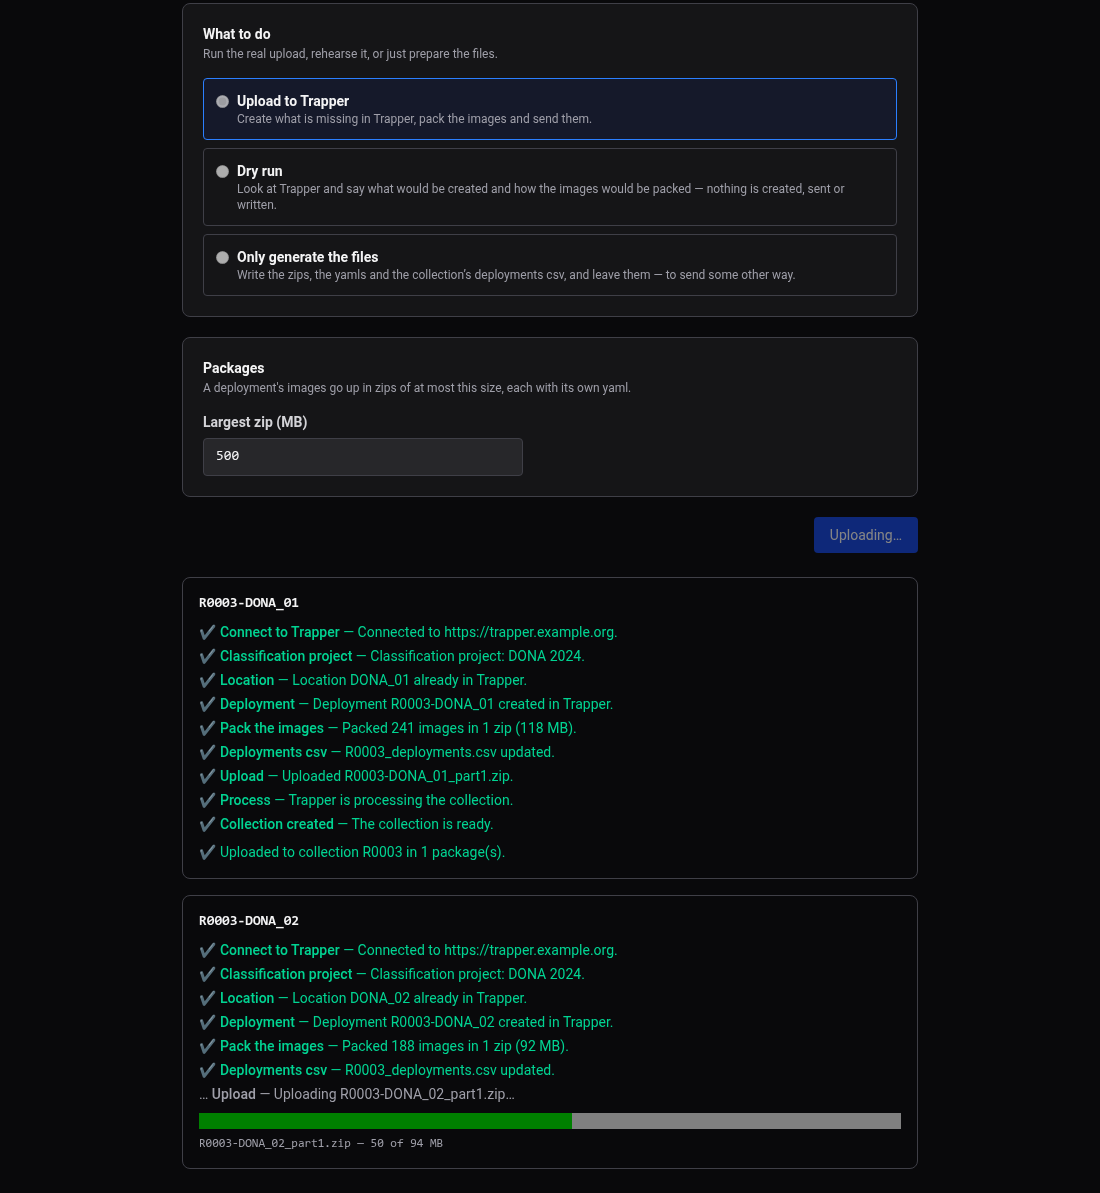
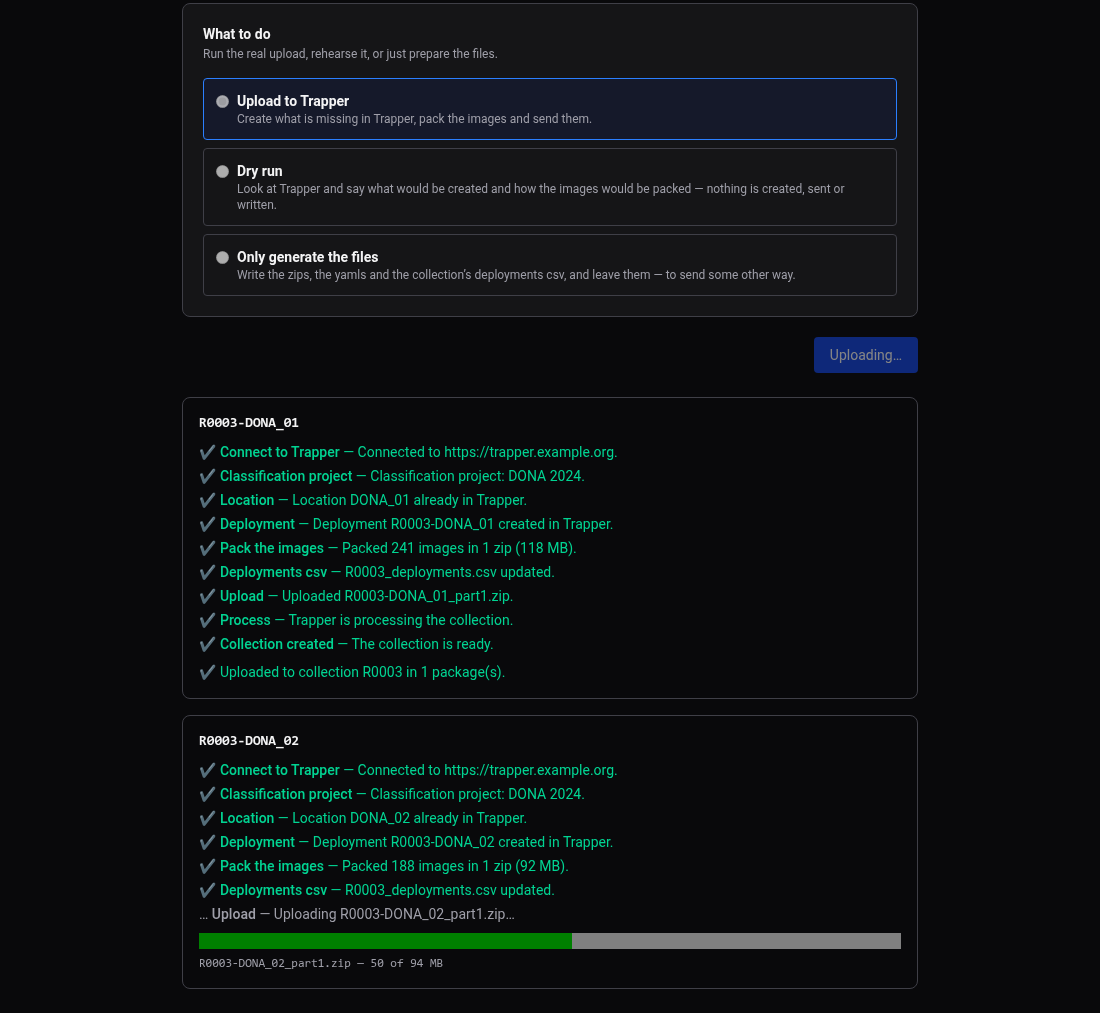
The largest zip is a setting of Trapper (TRAPPER.max_zip_mb), no longer a field of the upload page

diff --git a/frontend/src/pages/UploadDeploymentPage.test.tsx b/frontend/src/pages/UploadDeploymentPage.test.tsx
@@ -1,5 +1,5 @@
 import { beforeEach, describe, expect, it, vi } from 'vitest'
-import { render, screen, waitFor, within } from '@testing-library/react'
+import { render, screen, within } from '@testing-library/react'
 import userEvent from '@testing-library/user-event'
 import { api } from '../api'
 import UploadDeploymentPage from './UploadDeploymentPage'
@@ -50,7 +50,7 @@ beforeEach(() => {
   mockedApi.uploadCollections.mockResolvedValue({ results: COLLECTIONS })
   mockedApi.trapperGetConfig.mockResolvedValue({ base_url: 'https://trapper.example.org', user_name: 'alice@example.org', has_password: true })
   mockedApi.uploadClassificationProjects.mockResolvedValue({ results: [{ pk: 7, name: 'Doñana classification', is_active: true }] })
-  mockedApi.uploadDeployment.mockImplementation(async (_rp, _col, id, _mb, _mode, onEvent) => { STEP_EVENTS(id).forEach(onEvent) })
+  mockedApi.uploadDeployment.mockImplementation(async (_rp, _col, id, _mode, onEvent) => { STEP_EVENTS(id).forEach(onEvent) })
   mockedApi.checkUploadSelection.mockResolvedValue({ checks: [
     { check: 'research_project', ok: true, message: 'You have access to the research project DONA (#2) in Trapper.' },
     { check: 'collection', ok: true, message: 'You have access to the collection R0003 (#26): it is already in Trapper, so the upload adds to it.' },
@@ -154,13 +154,13 @@ describe('UploadDeploymentPage', () => {
     expect(screen.getByRole('button', { name: 'Upload 0 deployments' })).toBeDisabled()
   })
 
-  it('uploads each chosen deployment in turn, with the largest zip asked for', async () => {
+  it('uploads each chosen deployment in turn', async () => {
     await pickCollection()
     await userEvent.click(await screen.findByRole('button', { name: 'Upload 2 deployments' }))
 
     await screen.findByText(/2 deployment\(s\) uploaded\./)
-    expect(mockedApi.uploadDeployment.mock.calls.map((c) => c.slice(0, 4))).toEqual([
-      ['DONA', 'R0003', 'R0003-DONA_01', 500], ['DONA', 'R0003', 'R0003-DONA_02', 500],
+    expect(mockedApi.uploadDeployment.mock.calls.map((c) => c.slice(0, 3))).toEqual([
+      ['DONA', 'R0003', 'R0003-DONA_01'], ['DONA', 'R0003', 'R0003-DONA_02'],
     ])
   })
 
@@ -179,7 +179,7 @@ describe('UploadDeploymentPage', () => {
 
   it('shows how much of a file has gone up while it does', async () => {
     let finish: () => void = () => {}
-    mockedApi.uploadDeployment.mockImplementation((_rp, _col, _id, _mb, _mode, onEvent) => new Promise<void>((resolve) => {
+    mockedApi.uploadDeployment.mockImplementation((_rp, _col, _id, _mode, onEvent) => new Promise<void>((resolve) => {
       onEvent({ type: 'upload_progress', file: 'package_2_x_part001.zip', bytes: 5 * 1024 * 1024, total: 20 * 1024 * 1024 })
       finish = resolve
     }))
@@ -196,7 +196,7 @@ describe('UploadDeploymentPage', () => {
   })
 
   it('a deployment that fails shows why, and the others go on', async () => {
-    mockedApi.uploadDeployment.mockImplementation(async (_rp, _col, id, _mb, _mode, onEvent) => {
+    mockedApi.uploadDeployment.mockImplementation(async (_rp, _col, id, _mode, onEvent) => {
       if (id === 'R0003-DONA_01') throw new Error("Trapper has no research project 'DONA' — create it there first")
       STEP_EVENTS(id).forEach(onEvent)
     })
@@ -231,22 +231,10 @@ describe('UploadDeploymentPage', () => {
     expect(screen.queryByRole('region', { name: 'Upload of R0003-DONA_01' })).not.toBeInTheDocument()
   })
 
-  it('the largest zip needs to be a whole number of megabytes from 1 to 5000', async () => {
+  it('has no size of zips to set here: it is a setting of Trapper', async () => {
     await pickCollection()
-    const field = await screen.findByLabelText('Largest zip (MB)')
-    expect(field).toHaveValue(500)
-
-    for (const bad of ['', '0', '5001', '2.5']) {
-      await userEvent.clear(field)
-      if (bad) await userEvent.type(field, bad)
-      expect(screen.getByText('A whole number from 1 to 5000.'), `"${bad}"`).toBeInTheDocument()
-      expect(screen.getByRole('button', { name: /^Upload \d+ deployment/ })).toBeDisabled()
-    }
-    await userEvent.clear(field)
-    await userEvent.type(field, '100')
-    expect(screen.getByRole('button', { name: /^Upload \d+ deployment/ })).toBeEnabled()
-    await userEvent.click(screen.getByRole('button', { name: /^Upload \d+ deployment/ }))
-    await waitFor(() => expect(mockedApi.uploadDeployment.mock.calls[0][3]).toBe(100))
+    await screen.findByRole('button', { name: 'Upload 2 deployments' })
+    expect(screen.queryByLabelText('Largest zip (MB)')).not.toBeInTheDocument()
   })
 
   it('changing the research project or the collection clears the previous upload', async () => {
@@ -271,7 +259,7 @@ describe('UploadDeploymentPage', () => {
   })
 
   it('runs a dry run, saying what would be done and changing nothing', async () => {
-    mockedApi.uploadDeployment.mockImplementation(async (_rp, _col, id, _mb, _mode, onEvent) => {
+    mockedApi.uploadDeployment.mockImplementation(async (_rp, _col, id, _mode, onEvent) => {
       onEvent({ type: 'done', mode: 'dry_run', collection: 'R0003', deployment_id: id, parts: 3, would_create_location: true, would_create_deployment: false })
     })
     await pickCollection()
@@ -279,7 +267,7 @@ describe('UploadDeploymentPage', () => {
     await userEvent.click(await screen.findByRole('button', { name: 'Dry run 2 deployments' }))
 
     await screen.findByText(/2 deployment\(s\) checked\./)
-    expect(mockedApi.uploadDeployment.mock.calls.map((c) => c[4])).toEqual(['dry_run', 'dry_run'])
+    expect(mockedApi.uploadDeployment.mock.calls.map((c) => c[3])).toEqual(['dry_run', 'dry_run'])
     expect(screen.getAllByText('The location would be created in Trapper.')).toHaveLength(2)
     expect(screen.getAllByText('The deployment is already in Trapper.')).toHaveLength(2)
     expect(screen.getAllByText('The images would go up in 3 package(s).')).toHaveLength(2)
@@ -288,7 +276,7 @@ describe('UploadDeploymentPage', () => {
   it('only generates the files without a Trapper account, and can open their folder', async () => {
     mockedApi.trapperGetConfig.mockResolvedValue({ base_url: null, user_name: null, has_password: false })
     mockedApi.openFolder.mockResolvedValue({ opened: '/out/R0003' })
-    mockedApi.uploadDeployment.mockImplementation(async (_rp, _col, id, _mb, _mode, onEvent) => {
+    mockedApi.uploadDeployment.mockImplementation(async (_rp, _col, id, _mode, onEvent) => {
       onEvent({ type: 'done', mode: 'generate', collection: 'R0003', deployment_id: id, parts: 1, output_dir: '/out/R0003', files: ['a_part001.zip', 'a_part001.yaml', 'R0003_deployments.csv'] })
     })
     await pickCollection()
@@ -301,8 +289,8 @@ describe('UploadDeploymentPage', () => {
     await userEvent.click(button)
 
     await screen.findByText(/2 deployment\(s\) generated\./)
-    expect(mockedApi.uploadDeployment.mock.calls[0][4]).toBe('generate')
-    expect(mockedApi.uploadDeployment.mock.calls[0][6]).toBe(7)
+    expect(mockedApi.uploadDeployment.mock.calls[0][3]).toBe('generate')
+    expect(mockedApi.uploadDeployment.mock.calls[0][5]).toBe(7)
     expect(screen.getAllByText('R0003_deployments.csv').length).toBeGreaterThan(0)
     await userEvent.click(screen.getAllByRole('button', { name: 'Open folder in file explorer' })[0])
     expect(mockedApi.openFolder).toHaveBeenCalledWith('/out/R0003')
@@ -334,7 +322,7 @@ describe('UploadDeploymentPage', () => {
       await userEvent.click(await screen.findByRole('button', { name: 'Upload 2 deployments' }))
       await screen.findByText(/2 deployment\(s\) uploaded\./)
       expect(mockedApi.uploadClassificationProjects).toHaveBeenCalledWith('DONA')
-      expect(mockedApi.uploadDeployment.mock.calls.map((c) => c[6])).toEqual([7, 7])
+      expect(mockedApi.uploadDeployment.mock.calls.map((c) => c[5])).toEqual([7, 7])
     })
 
     it('has to be picked when there are several, and holds the upload back until it is', async () => {
@@ -351,7 +339,7 @@ describe('UploadDeploymentPage', () => {
       await userEvent.click(await screen.findByRole('option', { name: 'B (#8)' }))
       await userEvent.click(screen.getByRole('button', { name: 'Upload 2 deployments' }))
       await screen.findByText(/2 deployment\(s\) uploaded\./)
-      expect(mockedApi.uploadDeployment.mock.calls[0][6]).toBe(8)
+      expect(mockedApi.uploadDeployment.mock.calls[0][5]).toBe(8)
     })
   })
 

diff --git a/frontend/src/pages/UploadDeploymentPage.tsx b/frontend/src/pages/UploadDeploymentPage.tsx
@@ -82,7 +82,6 @@ export default function UploadDeploymentPage({ initial }: Props = {}) {
   const [collections, setCollections] = useState<UploadCollection[]>([])
   const [collectionName, setCollectionName] = useState('')
   const [selected, setSelected] = useState<Set<string>>(new Set())
-  const [maxZipMb, setMaxZipMb] = useState('500')
   const [mode, setMode] = useState<UploadMode>('upload')
   const [trapper, setTrapper] = useState<{ base_url: string | null; user_name: string | null; has_password: boolean } | null>(null)
   const [loadError, setLoadError] = useState<string | null>(null)
@@ -160,8 +159,6 @@ export default function UploadDeploymentPage({ initial }: Props = {}) {
   }
 
   const collection = collections.find((c) => c.name === collectionName)
-  const zipMb = Number(maxZipMb)
-  const zipValid = maxZipMb.trim() !== '' && Number.isInteger(zipMb) && zipMb >= 1 && zipMb <= 5000
   const connected = Boolean(trapper?.base_url && trapper.user_name && trapper.has_password)
   // Generating the files needs no account — the others look at Trapper.
   const accountOk = mode === 'generate' || connected
@@ -217,7 +214,7 @@ export default function UploadDeploymentPage({ initial }: Props = {}) {
     setRuns(Object.fromEntries(ids.map((id) => [id, EMPTY_RUN])))
     for (const id of ids) {
       try {
-        await api.uploadDeployment(projectId, collection.name, id, zipMb, mode, (event) => setRuns((r) => ({ ...r, [id]: reduceRun(r[id] ?? EMPTY_RUN, event) })), classificationValue)
+        await api.uploadDeployment(projectId, collection.name, id, mode, (event) => setRuns((r) => ({ ...r, [id]: reduceRun(r[id] ?? EMPTY_RUN, event) })), classificationValue)
       } catch (e) {
         setRuns((r) => ({ ...r, [id]: { ...(r[id] ?? EMPTY_RUN), progress: null, error: e instanceof Error ? e.message : 'The upload failed.' } }))
       }
@@ -403,19 +400,8 @@ export default function UploadDeploymentPage({ initial }: Props = {}) {
       )}
 
       {collection && (
-        <Card title="Packages" description="A deployment's images go up in zips of at most this size, each with its own yaml.">
-          <div className="max-w-xs">
-            <label className={labelClass} htmlFor="upload-max-zip">Largest zip (MB)</label>
-            <input id="upload-max-zip" type="number" min={1} max={5000} step={1} className={inputClass} value={maxZipMb} disabled={uploading}
-                   onChange={(e) => setMaxZipMb(e.target.value)} aria-invalid={zipValid ? undefined : true} />
-            {!zipValid && <p className="text-xs text-red-600 dark:text-red-400 mt-1">A whole number from 1 to 5000.</p>}
-          </div>
-        </Card>
-      )}
-
-      {collection && (
         <div className="flex justify-end mb-6">
-          <button type="button" className={btnPrimary} disabled={uploading || !accountOk || toUpload.length === 0 || !zipValid || !classificationReady} onClick={handleUpload}>
+          <button type="button" className={btnPrimary} disabled={uploading || !accountOk || toUpload.length === 0 || !classificationReady} onClick={handleUpload}>
             {uploading ? modeInfo.busy : modeInfo.button(toUpload.length)}
           </button>
         </div>

diff --git a/frontend/src/pages/SettingsPage.tsx b/frontend/src/pages/SettingsPage.tsx
@@ -15,6 +15,7 @@ const SEQUENCE_GAP = { min: 0.001, max: 86400, decimal: true }
 const MIN_REVISIONS = { min: 1, max: 50 }
 const SIMILARITY_TOLERANCE = { min: 0, max: 1000, decimal: true }
 const WORKERS = { min: 1, max: 64 }
+const MAX_ZIP_MB = { min: 1, max: 5000 }
 
 type Limits = { min: number; max: number; decimal?: boolean }
 
@@ -98,6 +99,7 @@ interface Draft {
   workers: string
   dataDir: string
   trapperUrl: string
+  maxZipMb: string
   trapperUser: string
   trapperPassword: string
   validation: AppSettings['VALIDATION']
@@ -133,6 +135,7 @@ function toDraft(s: AppSettings): Draft {
     workers: String(s.GENERAL.workers),
     dataDir: s.DATA.dir,
     trapperUrl: s.TRAPPER.base_url ?? '',
+    maxZipMb: String(s.TRAPPER.max_zip_mb),
     trapperUser: s.TRAPPER.user_name ?? '',
     trapperPassword: '',
     validation: { ...s.VALIDATION },
@@ -175,6 +178,7 @@ function sectionValid(d: Draft, id: SectionId): boolean {
       && [d.imageTolerance, d.sequenceCountTolerance, d.sequenceLengthTolerance].every((t) => numberIn(t, SIMILARITY_TOLERANCE) !== null)
   }
   if (id === 'preprocessing') return numberIn(d.resizeWidth, RESIZE_WIDTH) !== null
+  if (id === 'trapper') return numberIn(d.maxZipMb, MAX_ZIP_MB) !== null
   return true
 }
 
@@ -182,7 +186,7 @@ function toUpdate(d: Draft): AppSettingsUpdate | null {
   if (!SECTIONS.every((s) => sectionValid(d, s.id))) return null
   return {
     GENERAL: { log_level: d.logLevel, workers: Number(d.workers) },
-    TRAPPER: { base_url: d.trapperUrl.trim() || null, user_name: d.trapperUser.trim() || null, user_password: d.trapperPassword },
+    TRAPPER: { base_url: d.trapperUrl.trim() || null, user_name: d.trapperUser.trim() || null, user_password: d.trapperPassword, max_zip_mb: Number(d.maxZipMb) },
     DATA: { dir: d.dataDir.trim() || null },
     VALIDATION: d.validation,
     POSTVALIDATION: {
@@ -788,6 +792,9 @@ export default function SettingsPage({ onClose }: Props) {
                 {conn.kind === 'ok' && <span className="text-sm text-emerald-700 dark:text-emerald-400">{conn.message}</span>}
                 {conn.kind === 'error' && <span className="text-sm text-red-600 dark:text-red-400">{conn.message}</span>}
               </div>
+            </Row>
+            <Row label="Upload packages" description="A deployment's images go up in zips of at most this size, each with its own yaml.">
+              <NumberBox label="Largest zip" value={draft.maxZipMb} limits={MAX_ZIP_MB} onChange={(v) => set('maxZipMb', v)} unit="MB" />
             </Row>
           </div>
         )}

diff --git a/frontend/src/pages/SettingsPage.test.tsx b/frontend/src/pages/SettingsPage.test.tsx
@@ -159,8 +159,26 @@ describe('SettingsPage', () => {
       await userEvent.type(screen.getByLabelText('Username'), 'bob')
       await userEvent.click(screen.getByRole('button', { name: 'Save' }))
 
-      expect(mockedApi.saveSettings.mock.calls[0][0].TRAPPER).toEqual({ base_url: 'https://trapper.example.org', user_name: 'bob', user_password: '' })
+      expect(mockedApi.saveSettings.mock.calls[0][0].TRAPPER).toEqual({ base_url: 'https://trapper.example.org', user_name: 'bob', user_password: '', max_zip_mb: 500 })
       expect(await screen.findByText('Settings saved.')).toBeInTheDocument()
+    })
+
+    it('sets the largest zip an upload makes, from 1 to 5000 MB', async () => {
+      render(<SettingsPage onClose={vi.fn()} />)
+      await screen.findByLabelText('Level')
+      await section('Trapper')
+      const field = screen.getByLabelText('Largest zip')
+      expect(field).toHaveValue('500')
+
+      await userEvent.clear(field)
+      await userEvent.type(field, '5001')
+      expect(screen.getByText('A whole number from 1 to 5000.')).toBeInTheDocument()
+      expect(screen.getByRole('button', { name: 'Save' })).toBeDisabled()
+
+      await userEvent.clear(field)
+      await userEvent.type(field, '250')
+      await userEvent.click(screen.getByRole('button', { name: 'Save' }))
+      expect(mockedApi.saveSettings.mock.calls[0][0].TRAPPER.max_zip_mb).toBe(250)
     })
 
     it('never keeps the password in the form once saved', async () => {
@@ -176,7 +194,7 @@ describe('SettingsPage', () => {
     })
 
     it('says there is no password saved yet', async () => {
-      mockedApi.getSettings.mockResolvedValue({ ...APP_SETTINGS, TRAPPER: { base_url: null, user_name: null, has_password: false } })
+      mockedApi.getSettings.mockResolvedValue({ ...APP_SETTINGS, TRAPPER: { base_url: null, user_name: null, has_password: false, max_zip_mb: 500 } })
       render(<SettingsPage onClose={vi.fn()} />)
       await screen.findByLabelText('Level')
       await section('Trapper')

diff --git a/frontend/src/types.ts b/frontend/src/types.ts
@@ -487,7 +487,7 @@ export interface ConfigInfo {
 export interface AppSettings {
   /** workers: how many images are validated or preprocessed at once; cpu_count: the CPUs this machine has (read-only). */
   GENERAL: { log_level: LogLevel; workers: number; cpu_count: number; log_file: string; log_level_override: string | null }
-  TRAPPER: { base_url: string | null; user_name: string | null; has_password: boolean }
+  TRAPPER: { base_url: string | null; user_name: string | null; has_password: boolean; max_zip_mb: number }
   /** The folder where the app keeps the images — its collections go in a "collections" folder inside. */
   DATA: { dir: string }
   VALIDATION: ValidationSettings
@@ -498,7 +498,7 @@ export interface AppSettings {
 /** What the settings page saves. A blank password keeps the saved one. */
 export interface AppSettingsUpdate {
   GENERAL: { log_level: LogLevel; workers: number }
-  TRAPPER: { base_url: string | null; user_name: string | null; user_password: string }
+  TRAPPER: { base_url: string | null; user_name: string | null; user_password: string; max_zip_mb: number }
   DATA: { dir: string | null }
   VALIDATION: ValidationSettings
   POSTVALIDATION: PostvalidationSettings

diff --git a/frontend/src/api.ts b/frontend/src/api.ts
@@ -248,11 +248,11 @@ export const api = {
   // Uploads one deployment: creates its location and the deployment in Trapper if need be, packs it and sends it — or,
   // as `mode` says, only shows what that would do, or only writes the files. The Trapper credentials are the saved ones.
   uploadDeployment: (
-    researchProjectId: string, collection: string, deploymentId: string, maxZipMb: number, mode: UploadMode,
+    researchProjectId: string, collection: string, deploymentId: string, mode: UploadMode,
     onEvent: (event: UploadEvent) => void, classificationProjectPk: number | null = null,
   ) =>
     streamNdjson<UploadEvent>('/api/upload/deployment', {
-      research_project_id: researchProjectId, collection, deployment_id: deploymentId, max_zip_mb: maxZipMb, mode,
+      research_project_id: researchProjectId, collection, deployment_id: deploymentId, mode,
       classification_project_pk: classificationProjectPk,
     }, onEvent, 'The upload ended unexpectedly.'),
 

diff --git a/frontend/src/test/fixtures.ts b/frontend/src/test/fixtures.ts
@@ -83,7 +83,7 @@ export const DETAILED_SESSION: SessionSummary = {
 /** The settings a fresh install has — every check shown — with a Trapper account saved. */
 export const APP_SETTINGS: AppSettings = {
   GENERAL: { log_level: 'INFO', workers: 4, cpu_count: 8, log_file: '/home/me/.config/wildintel-uploader/logs/wildintel-uploader.log', log_level_override: null },
-  TRAPPER: { base_url: 'https://trapper.example.org', user_name: 'alice', has_password: true },
+  TRAPPER: { base_url: 'https://trapper.example.org', user_name: 'alice', has_password: true, max_zip_mb: 500 },
   DATA: { dir: '/home/me/Documents/wildintel-uploader' },
   VALIDATION: { corrupted: true, sequence: true, structure: true, camera: true, exif: true, duplicates: true },
   POSTVALIDATION: {

diff --git a/tools/screenshots/mock_api.js b/tools/screenshots/mock_api.js
@@ -121,7 +121,7 @@
 
   const SETTINGS = {
     GENERAL: { log_level: 'INFO', workers: 4, cpu_count: 8, log_file: '/home/me/.config/wildintel-uploader/logs/wildintel-uploader.log', log_level_override: null },
-    TRAPPER: { base_url: TRAPPER_URL, user_name: 'field.team@example.org', has_password: true },
+    TRAPPER: { base_url: TRAPPER_URL, user_name: 'field.team@example.org', has_password: true, max_zip_mb: 500 },
     DATA: { dir: DATA_DIR },
     VALIDATION: { corrupted: true, sequence: true, structure: true, camera: true, exif: true, duplicates: true },
     POSTVALIDATION: {

diff --git a/tests/unit/test_upload_api.py b/tests/unit/test_upload_api.py
@@ -155,9 +155,9 @@ def test_an_unknown_research_project_or_deployment_is_a_404_before_anything_star
 
 
 @pytest.mark.parametrize("bad", [
-    {"collection": "Doñana"}, {"collection": "R003"}, {"deployment_id": "DONA-01"}, {"deployment_id": "R0003"}, {"max_zip_mb": 0}, {"max_zip_mb": 5001},
+    {"collection": "Doñana"}, {"collection": "R003"}, {"deployment_id": "DONA-01"}, {"deployment_id": "R0003"},
 ])
-def test_names_that_are_not_collections_or_deployments_and_sizes_out_of_range_are_a_422(tmp_path: Path, bad: dict):
+def test_names_that_are_not_collections_or_deployments_are_a_422(tmp_path: Path, bad: dict):
     with _in(tmp_path):
         assert _client().post("/api/upload/deployment", json={**PAYLOAD, **bad}).status_code == 422
 
@@ -170,15 +170,16 @@ def test_missing_trapper_credentials_are_a_400_naming_what_is_missing(tmp_path: 
     assert "Missing Trapper URL, username, password" in response.json()["detail"]
 
 
-def test_the_zips_are_split_at_the_size_asked_for(tmp_path: Path, fake_uploader):
+def test_the_zips_are_split_at_the_size_of_the_settings(tmp_path: Path, fake_uploader):
     _kept(tmp_path)
     fake = FakeTrapper()
 
     with _in(tmp_path / "collections"), patch("wildintel_uploader.web.api.routers.upload.config.data_dir", return_value=tmp_path), \
-         patch.object(trapper_service, "_client", return_value=fake):
-        events = _events(_client().post("/api/upload/deployment", json={**PAYLOAD, "max_zip_mb": 1}))
+         patch.object(trapper_service, "_client", return_value=fake), patch.object(config, "max_zip_mb", return_value=1) as size:
+        events = _events(_client().post("/api/upload/deployment", json=PAYLOAD))
 
     assert events[-1]["parts"] == 1  # 1 MB is far bigger than two tiny images
+    size.assert_called()
 
 
 def test_when_the_collection_does_not_appear_the_error_says_how_long_it_waited(tmp_path: Path, fake_uploader):

diff --git a/src/wildintel_uploader/core/config.py b/src/wildintel_uploader/core/config.py
@@ -75,6 +75,10 @@ class TrapperSettings(BaseModel):
     user_password: Optional[str] = Field(
         default=None, description="Trapper password. (TRAPPER.user_password)", json_schema_extra={"secret": True},
     )
+    max_zip_mb: int = Field(
+        default=500, ge=1, le=5000,
+        description="A deployment's images go up in zips of at most this many megabytes, each with its own yaml. (TRAPPER.max_zip_mb)",
+    )
 
 
 class DataSettings(BaseModel):
@@ -291,6 +295,11 @@ def save_settings(settings: Settings, config_file: Optional[Path] = None) -> Non
 def workers(settings: Settings | None = None) -> int:
     """How many images are validated or preprocessed at once — GENERAL.workers."""
     return (settings or load_settings()).GENERAL.workers
+
+
+def max_zip_mb(settings: Settings | None = None) -> int:
+    """The largest zip an upload makes, in megabytes — TRAPPER.max_zip_mb."""
+    return (settings or load_settings()).TRAPPER.max_zip_mb
 
 
 def data_dir(settings: Settings | None = None) -> Path:

diff --git a/src/wildintel_uploader/core/schemas/requests.py b/src/wildintel_uploader/core/schemas/requests.py
@@ -41,8 +41,6 @@ class UploadDeploymentRequest(TrapperCredentials):
     research_project_id: str = Field(min_length=1)
     collection: str = Field(pattern=r"^R\d{4}(_.+)?$")
     deployment_id: str = Field(pattern=r"^R\d{4}-.+$")
-    # The zips are split in parts of at most this many megabytes.
-    max_zip_mb: int = Field(default=500, ge=1, le=5000)
     # "upload" sends it; "dry_run" says what that would do and changes nothing; "generate" only writes the
     # files (the zips, the yamls and the collection's deployments csv) and leaves them.
     mode: Literal["upload", "dry_run", "generate"] = "upload"

diff --git a/src/wildintel_uploader/web/api/routers/upload.py b/src/wildintel_uploader/web/api/routers/upload.py
@@ -127,7 +127,7 @@ def upload_deployment(req: UploadDeploymentRequest) -> StreamingResponse:
 
     events = trapper_upload_service.upload_stream(
         credentials, record, collection_dir, req.deployment_id, config.data_dir() / "packages" / req.research_project_id,
-        mode=req.mode, max_zip_bytes=req.max_zip_mb * 1024 * 1024, classification_project_pk=req.classification_project_pk,
+        mode=req.mode, max_zip_bytes=config.max_zip_mb() * 1024 * 1024, classification_project_pk=req.classification_project_pk,
     )
 
     def lines() -> Iterator[str]:
